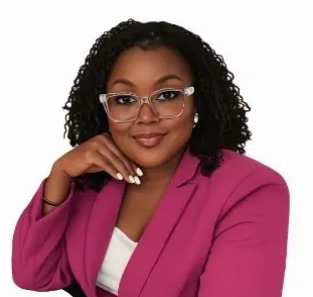
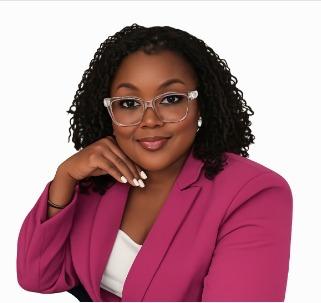
Update profile photo background

diff --git a/app/about/page.tsx b/app/about/page.tsx
@@ -46,7 +46,7 @@ export default function AboutPage() {
       <section className="py-14 md:py-16">
         <div className="container-narrow">
           <div className="grid md:grid-cols-[1fr_1.4fr] gap-10 md:gap-14">
-            <div className="relative aspect-[4/5] rounded-2xl overflow-hidden bg-brand-blue-pale">
+            <div className="relative aspect-[4/5] rounded-2xl overflow-hidden bg-white">
               <Image
                 src="/yinks-profile.jpg"
                 alt="Yinks, founder of TOTYM Finance"

diff --git a/app/page.tsx b/app/page.tsx
@@ -41,7 +41,7 @@ export default function Home() {
               </div>
             </div>
 
-            <div className="relative aspect-[4/5] rounded-2xl overflow-hidden bg-brand-blue-pale">
+            <div className="relative aspect-[4/5] rounded-2xl overflow-hidden bg-white">
               <Image
                 src="/yinks-profile.jpg"
                 alt="Yinks, founder of TOTYM Finance"
